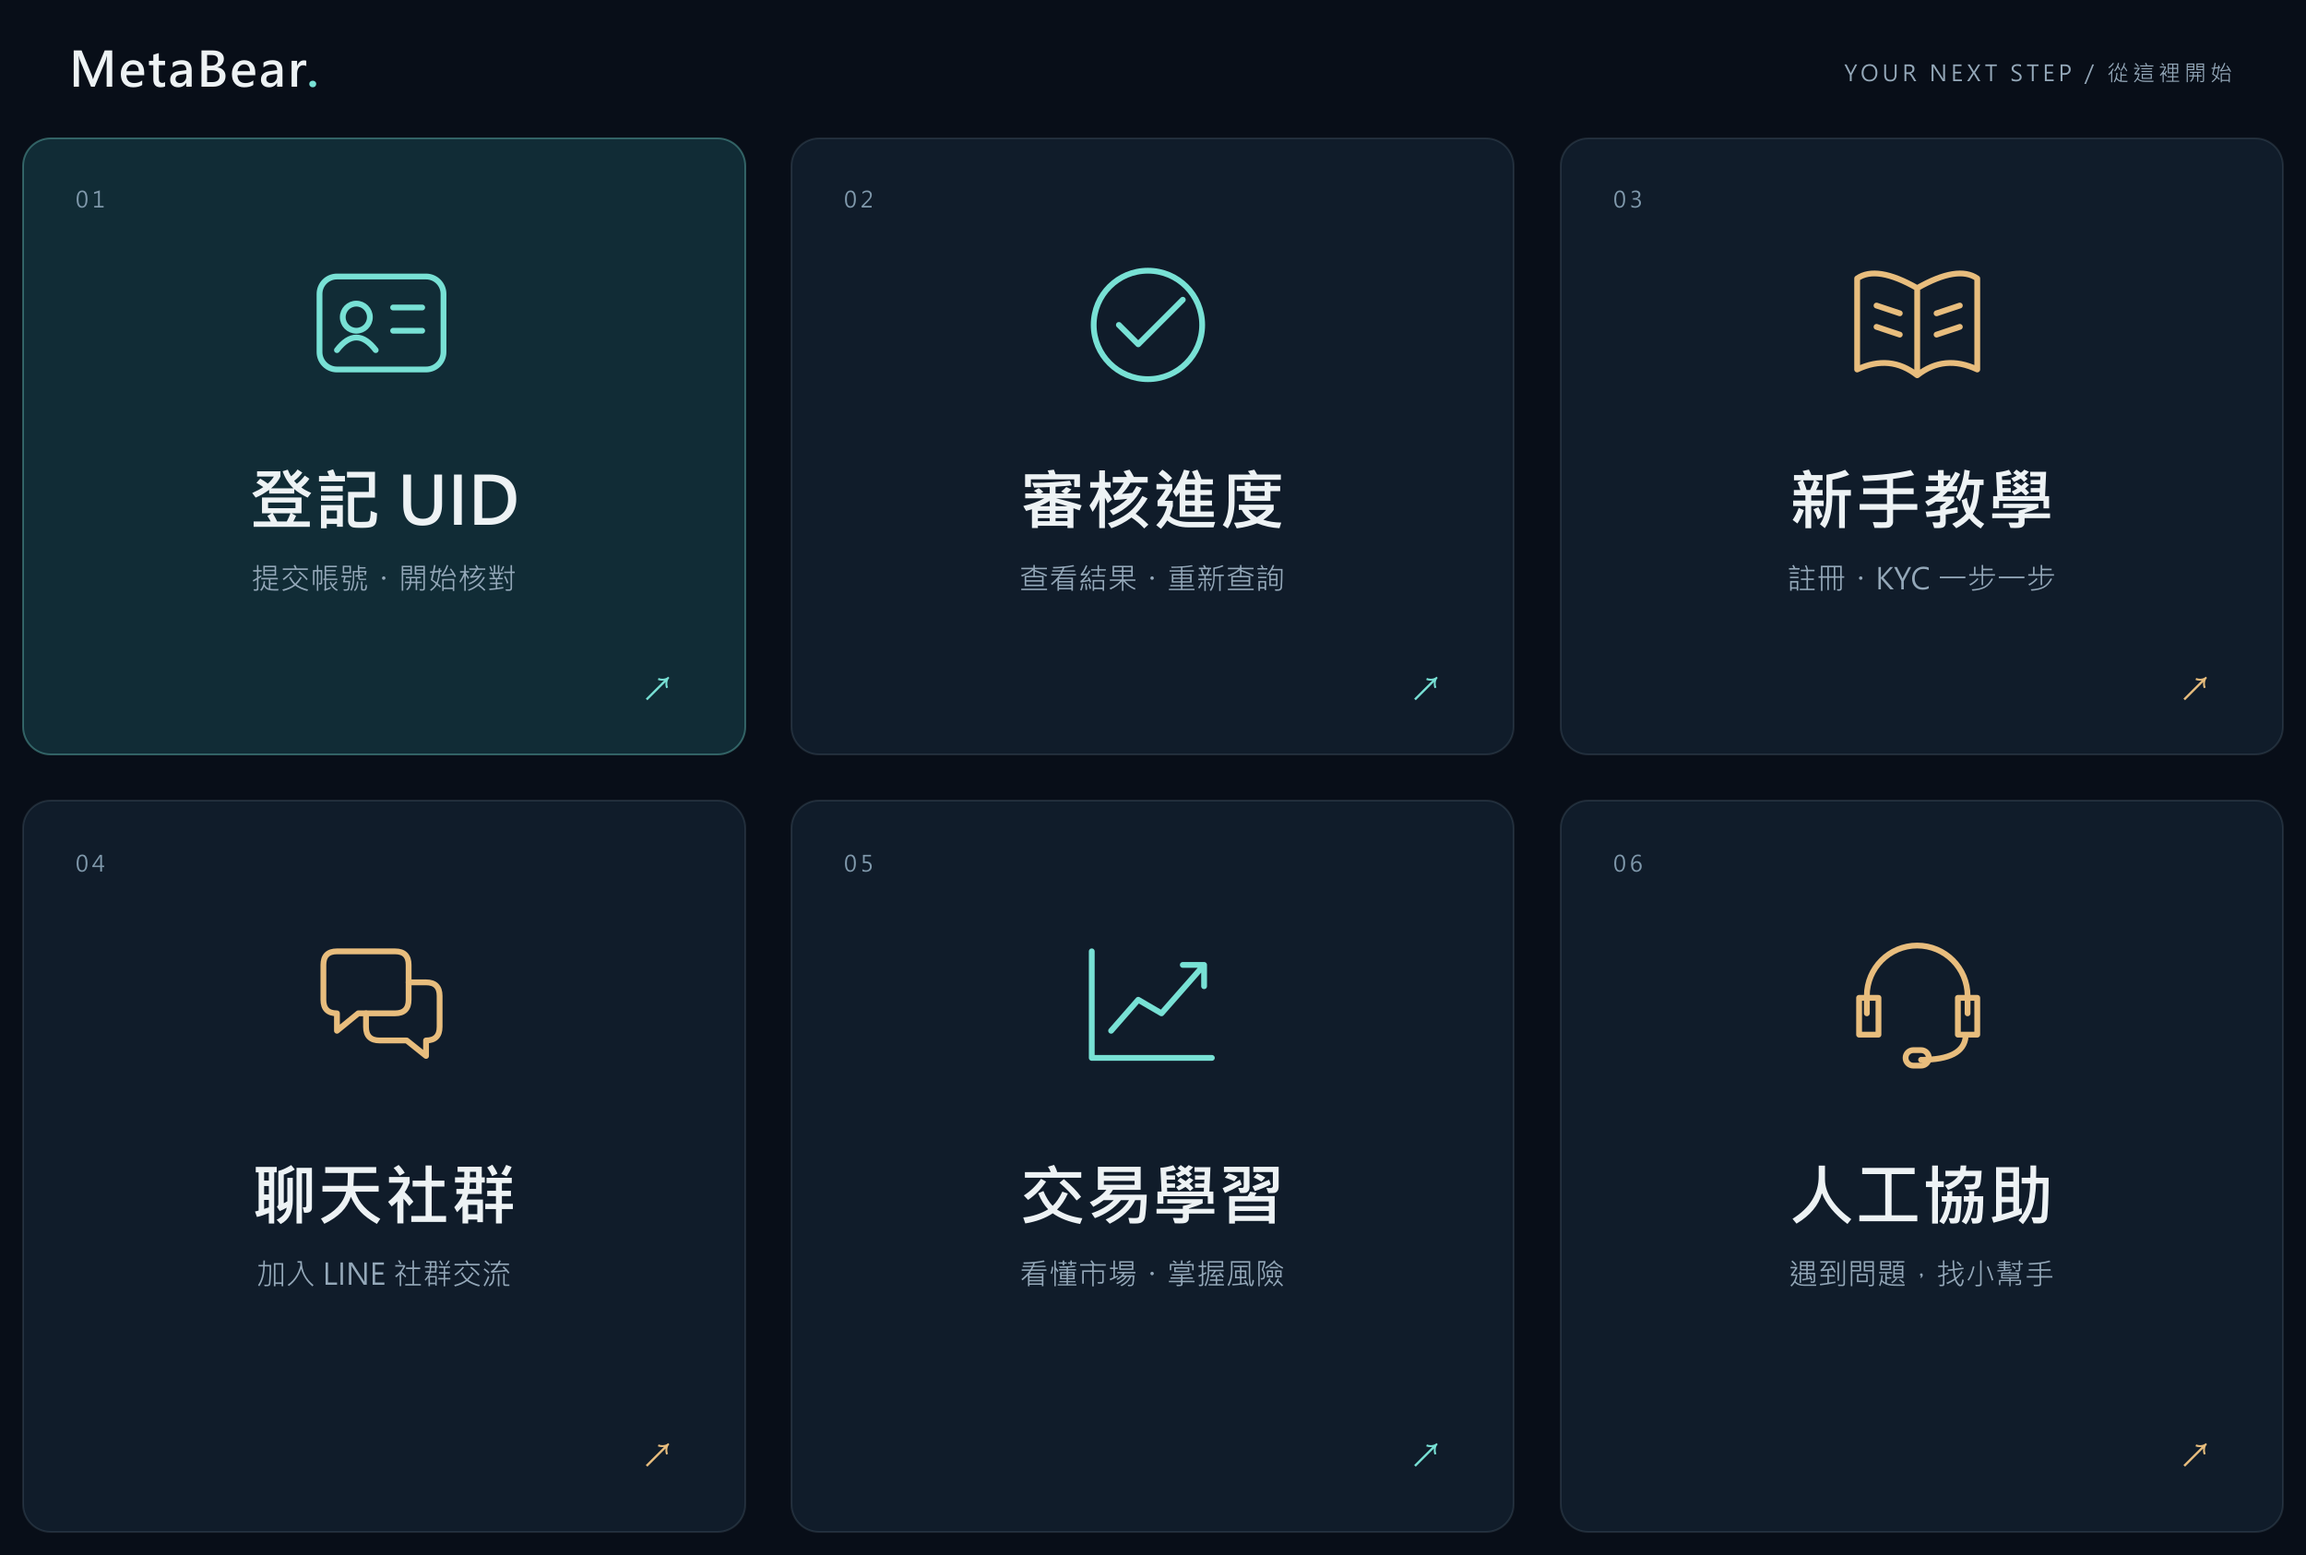
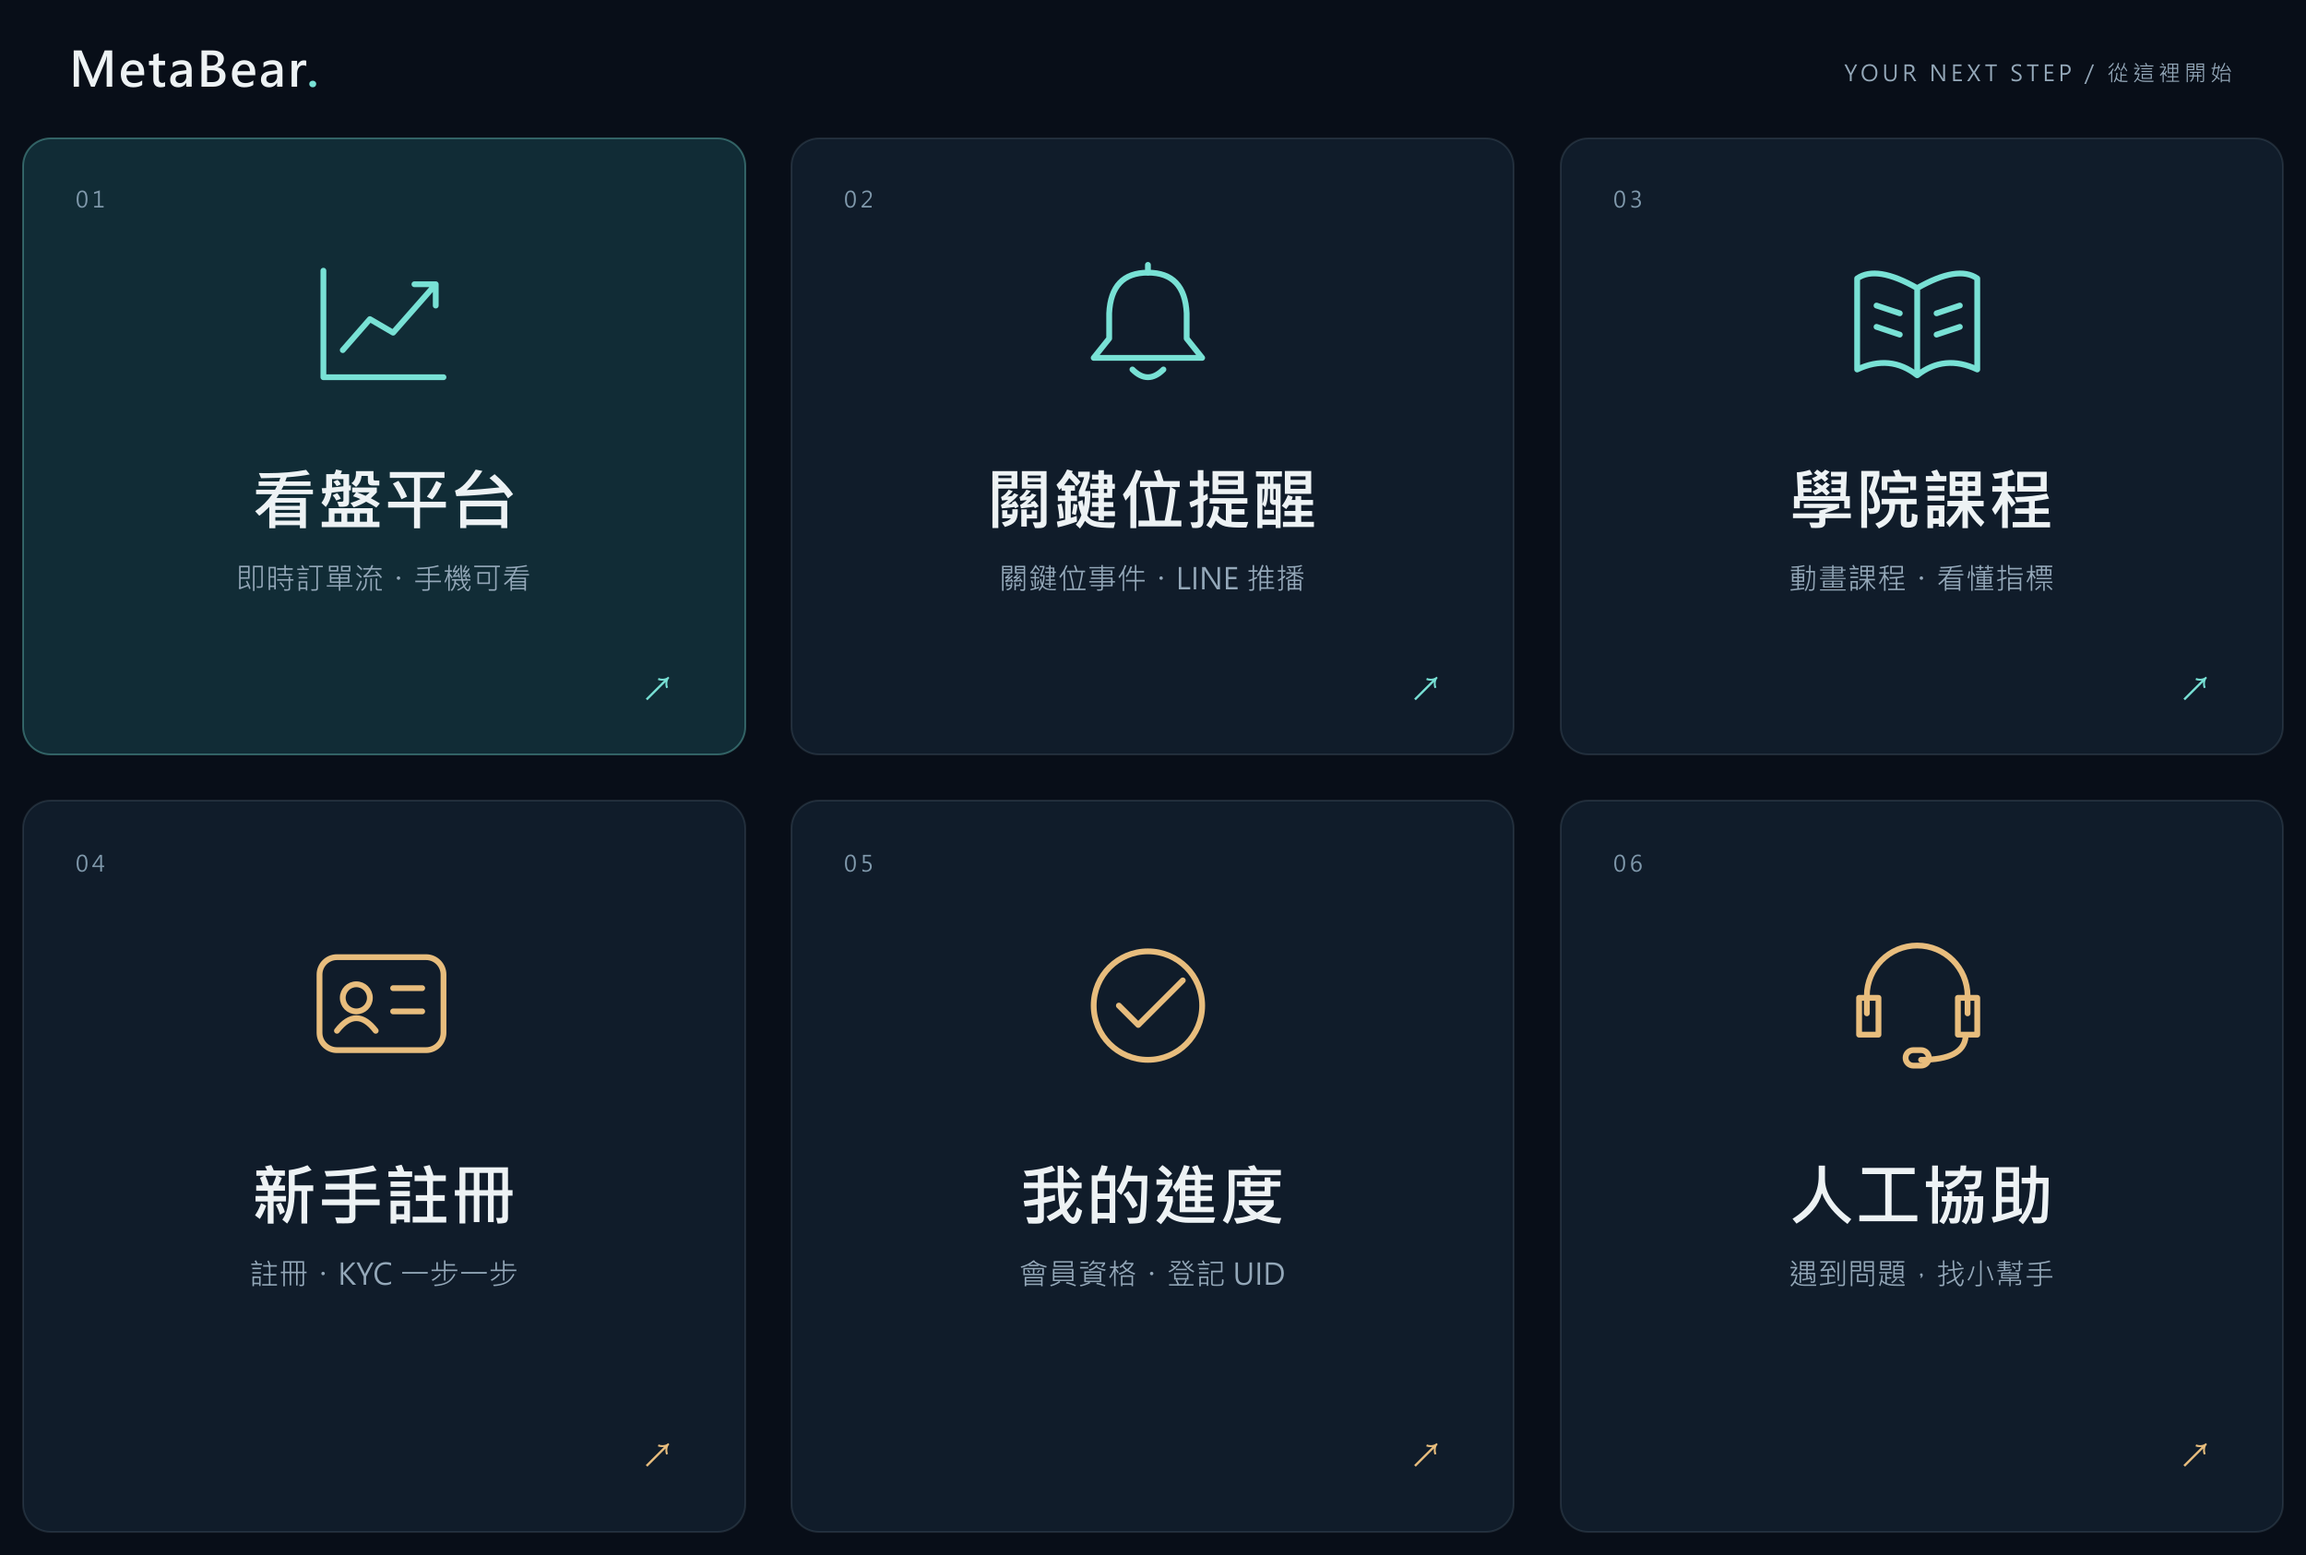
feat: lead the LINE menu and welcome with the platform, alerts and academy
New followers arriving from the replay video only saw the BingX sign-up flow.
The rich menu (v5) now puts 看盤平台, 關鍵位提醒 and 學院課程 on the top row
and 新手註冊, 我的進度, 人工協助 below; the welcome quick replies add the same
three. Each new keyword replies in the chat with a short intro and the link,
keeping the earlier rule that menu tiles answer inside LINE. UID submission is
reached through 我的進度, and the community link moves to a 聊天社群 keyword
under 更多教學.

The cron installs the new menu after the backend is deployed.

diff --git a/src/bot.ts b/src/bot.ts
@@ -36,6 +36,7 @@ import {
 import type { Account, LineMessage } from "./types";
 import { enqueueSync, customerAutomation } from "./automation";
 import { getTeam, personalize } from "./team";
+import { communityUrl } from "./line-rich-menu";
 import { knowledgeCandidates } from "./knowledge";
 import { recentConversation } from "./conversations";
 import { activeSupportCase, requestSupport, resumeBot } from "./support";
@@ -260,6 +261,33 @@ async function respondBase(
   if (text === "更多教學") return [moreMenu()];
   if (text === "合約教學") return [futuresMenu()];
   if (text === "看盤教學") return [marketMenu()];
+  if (text === "看盤平台")
+    return [
+      reply(
+        `MetaBear 訂單流平台：BTC 永續的即時足跡、CVD、OI、爆倉與關鍵位事件，手機也能看。\n${base}/lab/orderflow/\n\n看不懂圖上的指標，可以先從學院課程開始。盤面事件只描述發生了什麼，不是買賣訊號。`,
+        [command("學院課程"), command("關鍵位提醒"), command("選單")],
+      ),
+    ];
+  if (text === "關鍵位提醒")
+    return [
+      reply(
+        `價格到了關鍵位、又出現你選的訂單流事件時提醒你，每則都附當下的盤面。\n到 ${base}/alerts/ 選擇事件：開著網頁就能收網頁通知，不需要會員；要在 LINE 收到，按頁面上的「透過 LINE 接收通知」。\n\n${ALERT_TERMS}`,
+        [command("警報設定"), command("開始註冊"), command("選單")],
+      ),
+    ];
+  if (text === "學院課程")
+    return [
+      reply(
+        `MetaBear 學院：用動畫看懂足跡、CVD、吸收、掃蕩這些訂單流概念，每堂幾分鐘，手機也能看。\n${base}/orderflow/\n\n看完可以到看盤平台對照即時盤面。`,
+        [command("看盤平台"), command("合約教學"), command("選單")],
+      ),
+    ];
+  if (text === "聊天社群")
+    return [
+      reply(`加入 MetaBear 的 LINE 聊天社群：\n${communityUrl}`, [
+        command("選單"),
+      ]),
+    ];
   if (text === "後台")
     return [reply(`管理員後台（需登入）：\n${base}/admin`, [command("選單")])];
   if (text === "繼續使用小幫手") {

diff --git a/src/line-rich-menu.ts b/src/line-rich-menu.ts
@@ -2,36 +2,23 @@ import { audit } from "./db";
 
 export type MenuInstallMessage = { kind: "line-menu-install"; id: string };
 // Bump the name whenever the menu or its image changes; the cron installs it once.
-export const menuName = "MetaBear service menu 2026-10-05-v4";
+export const menuName = "MetaBear service menu 2026-10-23-v5";
 export const communityUrl =
   "https://line.me/ti/g2/c962LJ6bbEZ8X63UX9UhWWdw3bwmHJUv9mVM5g?utm_source=invitation&utm_medium=link_copy&utm_campaign=default";
+// Top row: what MetaBear offers. Bottom row: membership and help. Every tile replies in the chat
+// first (the platform tiles with a short intro and the link), so nobody leaves LINE without context.
 export function richMenuDefinition(_base: string) {
+  const postback = (text: string, displayText = text) => ({
+    type: "postback",
+    data: "text=" + encodeURIComponent(text),
+    displayText,
+  });
   const actions = [
-    {
-      type: "postback",
-      data: "text=" + encodeURIComponent("提交 UID"),
-      displayText: "我要登記 UID",
-    },
-    {
-      type: "postback",
-      data: "text=" + encodeURIComponent("我的進度"),
-      displayText: "查詢我的審核進度",
-    },
-    {
-      type: "postback",
-      data: "text=" + encodeURIComponent("開始註冊"),
-      displayText: "新手教學",
-    },
-    {
-      type: "uri",
-      label: "加入聊天社群",
-      uri: communityUrl,
-    },
-    {
-      type: "postback",
-      data: "text=" + encodeURIComponent("合約基礎"),
-      displayText: "合約學習",
-    },
+    postback("看盤平台"),
+    postback("關鍵位提醒"),
+    postback("學院課程"),
+    postback("開始註冊", "新手註冊"),
+    postback("我的進度", "查詢我的會員進度"),
     {
       type: "message",
       text: "人工協助",
@@ -41,7 +28,7 @@ export function richMenuDefinition(_base: string) {
     size: { width: 2500, height: 1686 },
     selected: true,
     name: menuName,
-    chatBarText: "教學・審核・客服",
+    chatBarText: "看盤・提醒・學院・客服",
     areas: actions.map((action, i) => ({
       bounds: {
         x: [0, 833, 1667][i % 3],

diff --git a/tests/line-services.test.ts b/tests/line-services.test.ts
@@ -233,39 +233,23 @@ test("rich menu covers exactly six tiles and has no AI toggles or public VIP lin
   assert.ok(
     !JSON.stringify(menu).match(/TOGGLE_LLM|reurl|免費加入|開啟 AI|關閉 AI/),
   );
-  const [community] = menu.areas.splice(3, 1);
-  assert.deepEqual(community.action, {
-    type: "uri",
-    label: "加入聊天社群",
-    uri: communityUrl,
-  });
   assert.ok(communityUrl.startsWith("https://line.me/ti/g2/"));
-  assert.ok(menu.areas.slice(0, 4).every((area) => area.action.type === "postback"));
+  // Every tile replies in the chat; none opens a page directly.
+  assert.ok(menu.areas.slice(0, 5).every((area) => area.action.type === "postback"));
   const text = (i: number) =>
     new URLSearchParams((menu.areas[i].action as { data: string }).data).get(
       "text",
     );
-  assert.equal(
-    text(0),
-    "提交 UID",
+  assert.deepEqual(
+    [0, 1, 2, 3, 4].map(text),
+    ["看盤平台", "關鍵位提醒", "學院課程", "開始註冊", "我的進度"],
   );
-  assert.equal(
-    text(1),
-    "我的進度",
-  );
-  assert.equal(
-    text(2),
-    "開始註冊",
-  );
-  assert.equal(
-    text(3),
-    "合約基礎",
-  );
-  assert.deepEqual(menu.areas[4].action, {
+  assert.deepEqual(menu.areas[5].action, {
     type: "message",
     text: "人工協助",
   });
-  for (const command of ["提交 UID", "開始註冊", "合約基礎", "人工協助"])
+  assert.ok(menu.chatBarText.length <= 14);
+  for (const command of ["看盤平台", "關鍵位提醒", "學院課程", "開始註冊", "我的進度", "人工協助", "聊天社群"])
     assert.equal(isImmediateCommand(command), true);
 });
 

diff --git a/tests/crm.test.ts b/tests/crm.test.ts
@@ -907,6 +907,27 @@ test("unavailable or invalid AI output falls back to approved content without ch
   }
 });
 
+test("platform, alerts, academy and community keywords reply with their links without AI", async () => {
+  try {
+    aiMode = "unavailable";
+    const links: Record<string, string> = {
+      看盤平台: "https://crm.test/lab/orderflow/",
+      關鍵位提醒: "https://crm.test/alerts/",
+      學院課程: "https://crm.test/orderflow/",
+      聊天社群: "https://line.me/ti/g2/",
+    };
+    for (const [keyword, link] of Object.entries(links)) {
+      const user = "U" + crypto.randomUUID().replaceAll("-", "");
+      await webhook([event(keyword, user)]);
+      const [answer] = calls.at(-1)!.messages as any[];
+      assert.ok(answer.text.includes(link), keyword);
+      assert.ok(answer.quickReply.items.some((i: any) => i.action.label === "選單"));
+    }
+  } finally {
+    aiMode = "normal";
+  }
+});
+
 test("every menu question works independently without AI or prior registration", async () => {
   const entry = menu();
   assert.equal(entry.type, "text");
@@ -917,6 +938,9 @@ test("every menu question works independently without AI or prior registration",
     { type: "message", label: "遇到問題", text: "人工協助" },
   );
   assert.deepEqual(labels, [
+    "看盤平台",
+    "關鍵位提醒",
+    "學院課程",
     "開始註冊",
     "入金教學",
     "查詢進度",

diff --git a/src/content.ts b/src/content.ts
@@ -156,9 +156,12 @@ export const reply = (text: string, actions: Action[] = []): LineMessage => ({
     : {}),
 });
 export const menu = (
-  welcome = "我是 MetaBear 小幫手。你可以直接說卡在哪裡，或先選一個最接近的需求。",
+  welcome = "我是 MetaBear 小幫手。可以看即時訂單流、訂閱關鍵位提醒、上學院課程，也可以從註冊開始；有問題直接說卡在哪裡。",
 ) =>
   reply(welcome, [
+    command("看盤平台"),
+    command("關鍵位提醒"),
+    command("學院課程"),
     command("開始註冊"),
     command("入金教學"),
     command("查詢進度", "我的進度"),
@@ -179,7 +182,7 @@ export const moreMenu = () =>
     command("交易偏好"),
     command("通知設定"),
     command("報單通知"),
-    command("人工協助"),
+    command("聊天社群"),
     command("選單"),
   ]);
 export const futuresMenu = () =>

diff --git a/src/assistant.ts b/src/assistant.ts
@@ -128,6 +128,7 @@ export function isImmediateCommand(text: string): boolean {
   if (!value) return false;
   if (isMenuCommand(value) || value === "更多教學") return true;
   if (value === "合約教學" || value === "看盤教學") return true;
+  if (/^(看盤平台|關鍵位提醒|學院課程|聊天社群)$/.test(value)) return true;
   if (value === "通知設定") return true;
   if (/^(停止通知|退訂|取消訂閱|訂閱通知)$/.test(value)) return true;
   if (

diff --git a/docs/AUTOMATION.md b/docs/AUTOMATION.md
@@ -10,7 +10,7 @@ Staging Worker 已透過 Cloudflare MCP 部署，版本 `27b99257f85c4060835e82d
 
 本次修正與網站更新部署版本：`1cac5aaba45f4068b37b4e12e40b4480`。首頁桌面與 390 × 844 手機版已檢查，網站引流連結已確認對應 `@804bmpkh`。
 
-2026-09-14 已設置六格新版選單：登記 UID、審核進度、新手教學、入金教學、交易學習、人工協助。2026-09-29 起第 4 格「入金教學」改為「聊天社群」，以 uri 開啟 LINE 聊天社群邀請連結（`communityUrl`，選單名稱升為 v3）。圖片為 `public/line-rich-menu.png`（2500 × 1686，約 139 KB），可編輯來源由 `scripts/create-rich-menu.mjs` 產生 SVG 再輸出 PNG。樣式沿用網站深藍、薄荷綠、金色；沒有 AI 開關或直接公開 VIP 邀請。
+2026-09-14 已設置六格新版選單：登記 UID、審核進度、新手教學、入金教學、交易學習、人工協助。2026-09-29 起第 4 格「入金教學」改為「聊天社群」，以 uri 開啟 LINE 聊天社群邀請連結（`communityUrl`，選單名稱升為 v3）。2026-10-23 改為 v5：上排「看盤平台、關鍵位提醒、學院課程」，下排「新手註冊、我的進度、人工協助」，讓影片帶進來的新用戶看得到平台功能。六格都先在對話裡回覆（平台三格附一段說明與網址），不直接開網頁。登記 UID 併入「我的進度」（還沒登記會引導提交）；聊天社群改由「更多教學」裡的「聊天社群」回覆連結。歡迎訊息的快速回覆也加上這三項。圖片為 `public/line-rich-menu.png`（2500 × 1686，約 139 KB），可編輯來源由 `scripts/create-rich-menu.mjs` 產生 SVG 再輸出 PNG。樣式沿用網站深藍、薄荷綠、金色；沒有 AI 開關或直接公開 VIP 邀請。
 
 新版 ID：`richmenu-054f3dc4424f06d4f03700563a6fcb93`。舊版 `richmenu-36d9d4965d1118b5ec04f33001918f43` 保留，可用 LINE default rich menu API 切回。對應官方帳號 basic ID 為 `@804bmpkh`（MetaBear 小幫手）。安裝操作透過可信 Queue 的 `line-menu-install` 執行，或由 Access 管理員 POST `/api/line/rich-menu` 排程；稽核紀錄保存新舊 ID 及結果。最多處理 100 個已知客戶的個別選單覆蓋，較大團隊需另行分批處理。
 
